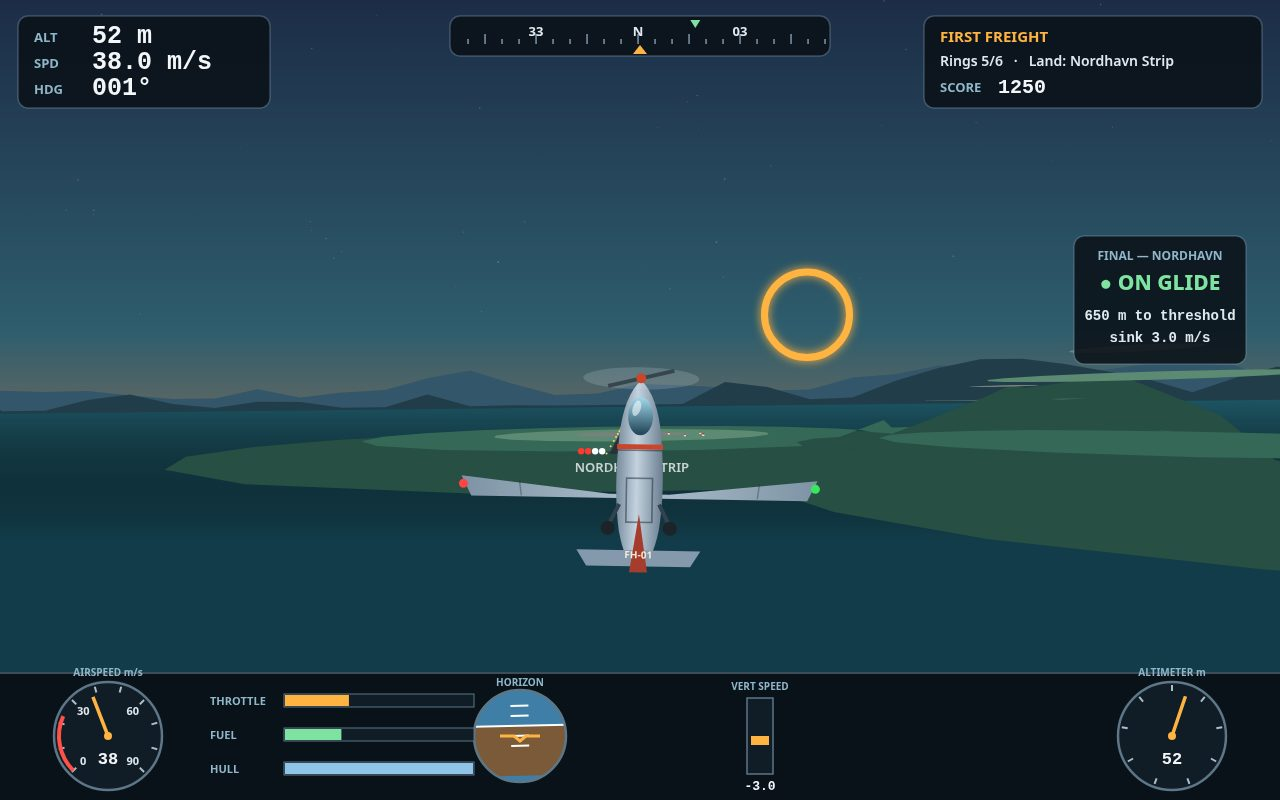
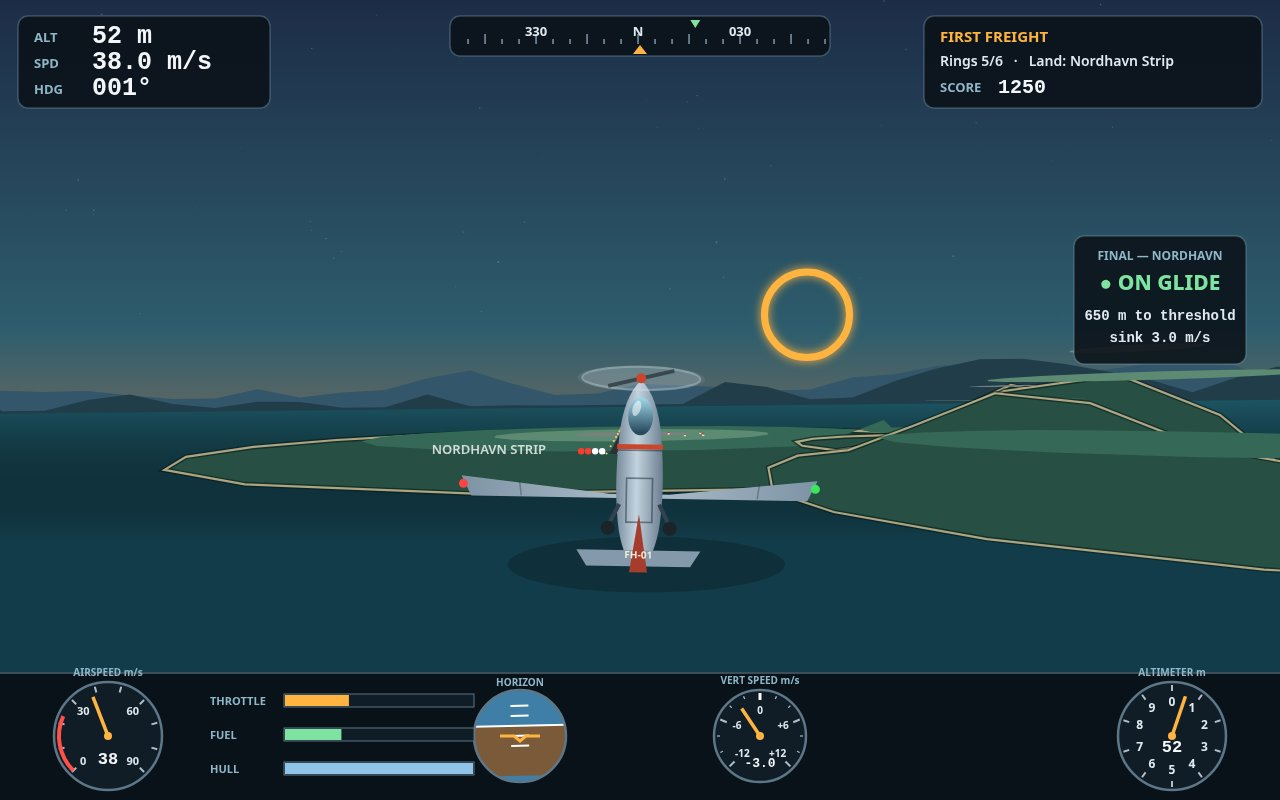
Revision: cover restaged (ring ahead, foreshortened, strip in distance), storm-run shot replaces rings shot, live VSI dial + altimeter numerals + 3-digit compass tape, aircraft shadow/prop-blur/wake, island shorelines, runway threshold bars + approach lights, strip label beside the strip

diff --git a/game/src/render.js b/game/src/render.js
@@ -100,6 +100,9 @@ export function drawScene(ctx, view) {
     ctx.fillStyle = sheen; ctx.fill();
   }
 
+  // --- storm cloud deck, behind the terrain ---
+  if (view.weather) drawClouds(ctx, t);
+
   // --- islands, far to near ---
   const sorted = ISLANDS.map((isl) => ({ isl, d: dist2(cam, isl) })).sort((a, b) => b.d - a.d);
   for (const { isl } of sorted) drawIsland(ctx, project, isl, pal);
@@ -126,6 +129,27 @@ export function drawScene(ctx, view) {
 
   // --- storm rain ---
   if (view.weather) drawRain(ctx, t);
+}
+
+// A low storm deck for weather scenes: overlapping soft-edged cloud
+// ellipses in flat greys, drifting slowly across the upper sky.
+function drawClouds(ctx, t) {
+  const blobs = [
+    { fx: 0.08, fy: 0.10, rx: 260, ry: 44 }, { fx: 0.30, fy: 0.05, rx: 320, ry: 52 },
+    { fx: 0.52, fy: 0.12, rx: 280, ry: 40 }, { fx: 0.74, fy: 0.06, rx: 330, ry: 50 },
+    { fx: 0.95, fy: 0.11, rx: 260, ry: 42 }, { fx: 0.18, fy: 0.20, rx: 220, ry: 30 },
+    { fx: 0.62, fy: 0.21, rx: 240, ry: 30 }, { fx: 0.88, fy: 0.22, rx: 200, ry: 26 },
+  ];
+  for (const b of blobs) {
+    const x = ((b.fx + t * 0.004) % 1.15 - 0.07) * W;
+    const y = b.fy * H;
+    const g = ctx.createRadialGradient(x, y, 6, x, y, b.rx);
+    g.addColorStop(0, 'rgba(34,40,48,0.55)');
+    g.addColorStop(0.7, 'rgba(34,40,48,0.27)');
+    g.addColorStop(1, 'rgba(34,40,48,0)');
+    ctx.fillStyle = g;
+    ctx.beginPath(); ctx.ellipse(x, y, b.rx, b.ry, 0, 0, Math.PI * 2); ctx.fill();
+  }
 }
 
 function dist2(cam, isl) { const dx = isl.x - cam.x, dz = isl.z - cam.z; return dx * dx + dz * dz; }
@@ -160,9 +184,8 @@ function drawIsland(ctx, project, isl, pal) {
   ];
   const N = 18;
   for (const ring of rings) {
-    ctx.fillStyle = ring.col;
-    ctx.beginPath();
-    let ok = true, started = false;
+    const pts = [];
+    let ok = true;
     for (let i = 0; i <= N; i++) {
       const a = (i / N) * Math.PI * 2;
       const wx = isl.x + Math.cos(a) * isl.r * ring.f;
@@ -170,9 +193,19 @@ function drawIsland(ctx, project, isl, pal) {
       const wy = terrainHeight(wx, wz) + (ring.f === 1 ? -1.5 : 0.5);
       const p = project(wx, wy, wz);
       if (!p) { ok = false; break; }
-      if (!started) { ctx.moveTo(p.x, p.y); started = true; } else ctx.lineTo(p.x, p.y);
+      pts.push(p);
     }
-    if (ok && started) { ctx.closePath(); ctx.fill(); }
+    if (!ok || !pts.length) continue;
+    ctx.fillStyle = ring.col;
+    ctx.beginPath();
+    pts.forEach((p, i) => { if (i === 0) ctx.moveTo(p.x, p.y); else ctx.lineTo(p.x, p.y); });
+    ctx.closePath(); ctx.fill();
+    if (ring.f === 1) {
+      // Shoreline: a dark waterline rim with a pale beach edge inside it,
+      // so each land patch reads as land where it meets the fjord.
+      ctx.strokeStyle = 'rgba(8,26,22,0.55)'; ctx.lineWidth = 5; ctx.stroke();
+      ctx.strokeStyle = 'rgba(226,205,160,0.75)'; ctx.lineWidth = 2.2; ctx.stroke();
+    }
   }
 }
 
@@ -236,6 +269,26 @@ function drawRunway(ctx, project, rw, pal, view) {
   const c2 = project(rw.cx, rw.alt + 0.5, rw.cz - hl * 0.92);
   if (c1 && c2) { ctx.beginPath(); ctx.moveTo(c1.x, c1.y); ctx.lineTo(c2.x, c2.y); ctx.stroke(); }
   ctx.setLineDash([]);
+  // Threshold bars: piano-key stripes across both ends of the strip.
+  ctx.strokeStyle = pal.stripLine;
+  for (const endSign of [1, -1]) {
+    const zBar = rw.cz + endSign * (hl - 16);
+    for (const off of [-0.62, -0.31, 0, 0.31, 0.62]) {
+      const b1 = project(rw.cx + off * rw.width, rw.alt + 0.5, zBar + endSign * 13);
+      const b2 = project(rw.cx + off * rw.width, rw.alt + 0.5, zBar - endSign * 1);
+      if (b1 && b2) {
+        ctx.lineWidth = Math.max(1.2, Math.min(5, 260 / b1.depth));
+        ctx.beginPath(); ctx.moveTo(b1.x, b1.y); ctx.lineTo(b2.x, b2.y); ctx.stroke();
+      }
+    }
+  }
+  // Approach lights: a centreline row running out from the south
+  // threshold, so the strip can be picked out from far down the fjord.
+  ctx.fillStyle = '#cfe8ff';
+  for (let i = 1; i <= 5; i++) {
+    const p = project(rw.cx, rw.alt + 1.2, rw.cz + hl + i * 46);
+    if (p && p.depth < 3200) { ctx.beginPath(); ctx.arc(p.x, p.y, Math.max(1.2, 216 / p.depth), 0, Math.PI * 2); ctx.fill(); }
+  }
   // Edge lights.
   ctx.fillStyle = '#ffd76a';
   for (let i = 0; i <= 8; i++) {
@@ -260,12 +313,15 @@ function drawRunway(ctx, project, rw, pal, view) {
       }
     }
   }
-  // Name label when close.
-  const mid = project(rw.cx, rw.alt + 2, rw.cz);
-  if (mid && mid.depth < 1500) {
-    ctx.fillStyle = 'rgba(255,255,255,0.75)';
-    ctx.font = '600 13px system-ui, sans-serif'; ctx.textAlign = 'center';
-    ctx.fillText(rw.name.toUpperCase(), mid.x, corners[0].y + 18);
+  // Name label when close: on the terrain west of the strip's near end,
+  // right-aligned so it ends beside the strip — never across the strip
+  // or the aircraft.
+  const labelP = project(rw.cx - hw - 75, rw.alt + 2, rw.cz + hl * 0.9);
+  const nearMid = project(rw.cx, rw.alt + 2, rw.cz + hl * 0.9);
+  if (labelP && nearMid && nearMid.depth < 1500) {
+    ctx.fillStyle = 'rgba(255,255,255,0.78)';
+    ctx.font = '600 13px system-ui, sans-serif'; ctx.textAlign = 'right';
+    ctx.fillText(rw.name.toUpperCase(), labelP.x, labelP.y + 4);
   }
 }
 
@@ -332,6 +388,33 @@ function drawCrates(ctx, project, ms) {
 function drawAircraft(ctx, plane, t) {
   const ax = W / 2 - (plane.bank || 0) * 26;
   const ay = H * 0.60 - (plane.climbAngle || 0) * 55;
+
+  // Grounding: a soft shadow on the water/terrain below, sliding away and
+  // fading as the aircraft climbs, tight under the wheels on the ground;
+  // and a faint twin wake when skimming low over water.
+  const groundAlt = terrainHeight(plane.x, plane.z);
+  const agl = Math.max(0, plane.alt - groundAlt);
+  if (plane.onGround) {
+    ctx.fillStyle = 'rgba(6,14,18,0.32)';
+    ctx.beginPath(); ctx.ellipse(ax, ay + 58, 150, 26, 0, 0, Math.PI * 2); ctx.fill();
+  } else {
+    const shA = Math.max(0.07, 0.30 - agl * 0.0021);
+    const shRx = Math.max(58, 148 - agl * 0.75);
+    const shX = ax + Math.min(64, agl * 0.55);
+    const shY = ay + 74 + Math.min(58, agl * 0.5);
+    ctx.fillStyle = 'rgba(6,14,18,' + shA.toFixed(3) + ')';
+    ctx.beginPath(); ctx.ellipse(shX, shY, shRx, shRx * 0.20, 0, 0, Math.PI * 2); ctx.fill();
+    if (groundAlt <= 0.01 && agl > 2 && agl < 30 && plane.speed > 12) {
+      ctx.strokeStyle = 'rgba(220,238,244,0.35)'; ctx.lineWidth = 2.5;
+      for (const side of [-1, 1]) {
+        ctx.beginPath();
+        ctx.moveTo(ax + side * 16, ay + 96);
+        ctx.quadraticCurveTo(ax + side * (30 + agl), ay + 130 + agl * 0.4, ax + side * (58 + agl * 1.4), ay + 168 + agl * 0.5);
+        ctx.stroke();
+      }
+    }
+  }
+
   ctx.save();
   ctx.translate(ax, ay);
   ctx.rotate((plane.bank || 0) * 0.85);
@@ -395,11 +478,16 @@ function drawAircraft(ctx, plane, t) {
   ctx.fillStyle = '#1c2329';
   ctx.beginPath(); ctx.arc(-31, 44, 7, 0, Math.PI * 2); ctx.arc(31, 44, 7, 0, Math.PI * 2); ctx.fill();
 
-  // Spinning prop at the nose: blurred disc and two blade streaks.
+  // Spinning prop at the nose: a translucent blur disc with a rim ring,
+  // and two blade streaks turning inside it.
   ctx.save();
   ctx.translate(0, -106);
+  ctx.fillStyle = 'rgba(200,214,224,0.10)';
+  ctx.beginPath(); ctx.ellipse(0, 0, 64, 13, 0, 0, Math.PI * 2); ctx.fill();
   ctx.fillStyle = 'rgba(200,214,224,0.20)';
   ctx.beginPath(); ctx.ellipse(0, 0, 58, 11, 0, 0, Math.PI * 2); ctx.fill();
+  ctx.strokeStyle = 'rgba(215,228,238,0.38)'; ctx.lineWidth = 2;
+  ctx.beginPath(); ctx.ellipse(0, 0, 59, 11.5, 0, 0, Math.PI * 2); ctx.stroke();
   ctx.strokeStyle = 'rgba(40,52,62,0.75)'; ctx.lineWidth = 4;
   const pa = plane.propPhase || 0;
   ctx.beginPath();

diff --git a/game/src/instruments.js b/game/src/instruments.js
@@ -54,7 +54,7 @@ function drawHeadingTape(ctx, plane, ms) {
     ctx.beginPath(); ctx.moveTo(x, y0 + h - 12); ctx.lineTo(x, y0 + h - (norm % 15 === 0 ? 22 : 17)); ctx.stroke();
     if (norm % 30 === 0) {
       ctx.fillStyle = '#dfe9ef'; ctx.font = '700 13px system-ui, sans-serif';
-      const label = norm === 0 ? 'N' : norm === 90 ? 'E' : norm === 180 ? 'S' : norm === 270 ? 'W' : String(norm / 10).padStart(2, '0');
+      const label = norm === 0 ? 'N' : norm === 90 ? 'E' : norm === 180 ? 'S' : norm === 270 ? 'W' : String(norm).padStart(3, '0');
       ctx.fillText(label, x, y0 + 20);
     }
   }
@@ -109,18 +109,19 @@ function drawPanel(ctx, plane, t) {
   drawDial(ctx, 108, y + 64, 54, 'AIRSPEED', 'm/s', plane.speed, 90, plane.speed.toFixed(0),
     (v) => -225 + (v / 90) * 270, plane.speed < STALL_SPEED + 3 && !plane.onGround);
   drawDial(ctx, W - 108, y + 64, 54, 'ALTIMETER', 'm', plane.alt, 1000, String(Math.max(0, Math.round(plane.alt))),
-    (v) => -90 + ((v % 1000) / 1000) * 360, false);
+    (v) => -90 + ((v % 1000) / 1000) * 360, false, 0.30);
   drawHorizon(ctx, W / 2 - 120, y + 64, 46, plane);
   drawVsi(ctx, W / 2 + 120, y + 64, plane);
   drawBars(ctx, 210, y + 22, plane);
 }
 
-function drawDial(ctx, cx, cy, r, label, unit, value, max, digital, angleFor, warn) {
+function drawDial(ctx, cx, cy, r, label, unit, value, max, digital, angleFor, warn, digitalFrac) {
   ctx.fillStyle = '#101c26';
   ctx.beginPath(); ctx.arc(cx, cy, r, 0, Math.PI * 2); ctx.fill();
   ctx.strokeStyle = warn && Math.sin(performance.now() / 130) > 0 ? '#ff5147' : '#5d7688';
   ctx.lineWidth = 2.5; ctx.stroke();
-  for (let v = 0; v <= max; v += max / 9) {
+  const step = max === 1000 ? 100 : max / 9;
+  for (let v = 0; v <= max; v += step) {
     const a = angleFor(v) * Math.PI / 180;
     const c = Math.cos(a), s = Math.sin(a);
     ctx.strokeStyle = '#aebfcc'; ctx.lineWidth = 2;
@@ -131,6 +132,11 @@ function drawDial(ctx, cx, cy, r, label, unit, value, max, digital, angleFor, wa
     if (max === 90 && v % 30 === 0) {
       ctx.fillStyle = '#dfe9ef'; ctx.font = '700 11px system-ui, sans-serif'; ctx.textAlign = 'center';
       ctx.fillText(String(v), cx + c * (r - 19), cy + s * (r - 19) + 4);
+    }
+    // Altimeter face numerals: 0-9, one per 100 m revolution step.
+    if (max === 1000 && v < 1000) {
+      ctx.fillStyle = '#dfe9ef'; ctx.font = '700 12px system-ui, sans-serif'; ctx.textAlign = 'center';
+      ctx.fillText(String(v / 100), cx + c * (r - 20), cy + s * (r - 20) + 4);
     }
   }
   // Stall band on the airspeed dial.
@@ -143,7 +149,7 @@ function drawDial(ctx, cx, cy, r, label, unit, value, max, digital, angleFor, wa
   ctx.beginPath(); ctx.moveTo(cx, cy); ctx.lineTo(cx + Math.cos(a) * (r - 12), cy + Math.sin(a) * (r - 12)); ctx.stroke();
   ctx.fillStyle = '#ffb340'; ctx.beginPath(); ctx.arc(cx, cy, 4, 0, Math.PI * 2); ctx.fill();
   ctx.fillStyle = '#f4f7f9'; ctx.font = '700 17px ui-monospace, Menlo, monospace'; ctx.textAlign = 'center';
-  ctx.fillText(digital, cx, cy + r * 0.52);
+  ctx.fillText(digital, cx, cy + r * (digitalFrac === undefined ? 0.52 : digitalFrac));
   ctx.fillStyle = '#8fb6c9'; ctx.font = '700 10px system-ui, sans-serif';
   ctx.fillText(label + ' ' + unit, cx, cy - r - 6);
 }
@@ -173,16 +179,37 @@ function drawHorizon(ctx, cx, cy, r, plane) {
 }
 
 function drawVsi(ctx, cx, cy, plane) {
-  ctx.fillStyle = '#8fb6c9'; ctx.font = '700 10px system-ui, sans-serif'; ctx.textAlign = 'center';
-  ctx.fillText('VERT SPEED', cx, cy - 46);
-  ctx.fillStyle = '#101c26'; ctx.fillRect(cx - 13, cy - 38, 26, 76);
-  ctx.strokeStyle = '#5d7688'; ctx.lineWidth = 1.5; ctx.strokeRect(cx - 13, cy - 38, 26, 76);
+  // A flown VSI: round dial, needle, graduations every 2 m/s, numerals at
+  // the majors, zero straight up, and a digital readout in m/s.
+  const r = 46;
   const vs = Math.max(-12, Math.min(12, plane.vs));
-  ctx.fillStyle = vs >= 0 ? '#7ee2a0' : '#ffb340';
-  const hgt = Math.abs(vs) / 12 * 36;
-  ctx.fillRect(cx - 9, vs >= 0 ? cy - hgt : cy, 18, hgt);
-  ctx.fillStyle = '#f4f7f9'; ctx.font = '700 13px ui-monospace, Menlo, monospace';
-  ctx.fillText((plane.vs >= 0 ? '+' : '') + plane.vs.toFixed(1), cx, cy + 54);
+  const angleFor = (v) => -225 + ((v + 12) / 24) * 270; // -12 bottom-left, 0 top, +12 bottom-right
+  ctx.fillStyle = '#101c26';
+  ctx.beginPath(); ctx.arc(cx, cy, r, 0, Math.PI * 2); ctx.fill();
+  ctx.strokeStyle = '#5d7688'; ctx.lineWidth = 2.5; ctx.stroke();
+  for (let v = -12; v <= 12; v += 2) {
+    const a = angleFor(v) * Math.PI / 180;
+    const c = Math.cos(a), s = Math.sin(a);
+    const major = v % 6 === 0;
+    ctx.strokeStyle = v === 0 ? '#ffffff' : '#aebfcc';
+    ctx.lineWidth = v === 0 ? 3 : major ? 2 : 1.2;
+    ctx.beginPath();
+    ctx.moveTo(cx + c * (r - (major ? 10 : 6)), cy + s * (r - (major ? 10 : 6)));
+    ctx.lineTo(cx + c * (r - 3), cy + s * (r - 3));
+    ctx.stroke();
+    if (major) {
+      ctx.fillStyle = '#dfe9ef'; ctx.font = '700 10px system-ui, sans-serif'; ctx.textAlign = 'center';
+      ctx.fillText(v > 0 ? '+' + v : String(v), cx + c * (r - 21), cy + s * (r - 21) + 3);
+    }
+  }
+  const a = angleFor(vs) * Math.PI / 180;
+  ctx.strokeStyle = '#ffb340'; ctx.lineWidth = 3.5;
+  ctx.beginPath(); ctx.moveTo(cx, cy); ctx.lineTo(cx + Math.cos(a) * (r - 13), cy + Math.sin(a) * (r - 13)); ctx.stroke();
+  ctx.fillStyle = '#ffb340'; ctx.beginPath(); ctx.arc(cx, cy, 4, 0, Math.PI * 2); ctx.fill();
+  ctx.fillStyle = '#f4f7f9'; ctx.font = '700 13px ui-monospace, Menlo, monospace'; ctx.textAlign = 'center';
+  ctx.fillText((plane.vs >= 0 ? '+' : '') + plane.vs.toFixed(1), cx, cy + r * 0.68);
+  ctx.fillStyle = '#8fb6c9'; ctx.font = '700 10px system-ui, sans-serif';
+  ctx.fillText('VERT SPEED m/s', cx, cy - r - 6);
 }
 
 function drawBars(ctx, x, y, plane) {

diff --git a/game/src/shots.js b/game/src/shots.js
@@ -1,5 +1,5 @@
 // shots.js — staged, deterministic scenes for the maker's screenshots.
-// A ?shot=cover|rings|approach|debrief URL freezes the clock and poses a
+// A ?shot=cover|storm|approach|debrief URL freezes the clock and poses a
 // real game state (same plane, same mission bookkeeping the game itself
 // uses), so every screenshot is an honest render of the game's own code.
 
@@ -38,6 +38,24 @@ export function stageShot(game, name) {
     return;
   }
 
+  if (name === 'storm') {
+    // Mission 3, Storm Run: heavy bank into the crosswind, rain and a low
+    // cloud deck (the storm palette and weather come from the mission
+    // itself), crabbed heading, low fuel on the gauges.
+    const storm = MISSIONS[2];
+    game.missionIndex = 2;
+    const ms = createMissionState(storm);
+    ms.ringDone[0] = true; ms.ringsPassed = 1; ms.score = 250;
+    ms.message = 'RING 1/2  +250'; ms.messageT = 3;
+    game.mState = ms;
+    game.plane = stagedPlane(storm, {
+      x: 180, z: -1250, alt: 150, heading: 0.30, speed: 44,
+      throttle: 0.72, bank: -0.48, climbAngle: -0.05, vs: -2.2, fuel: 13,
+    });
+    game.screen = 'fly';
+    return;
+  }
+
   game.screen = 'fly';
   if (name === 'rings') {
     const ms = createMissionState(mission);
@@ -63,14 +81,20 @@ export function stageShot(game, name) {
     });
     return;
   }
-  // cover: last ring ahead, Nordhavn strip beyond it, panel lit.
+  // cover: mid ring-run, banked in a turn onto the next ring (bank
+  // 0.21 rad, horizon rolled). The plane sits on a 33-degree intercept
+  // heading with the NEXT ring dead ahead of the nose, fully clear of
+  // the airframe and seen obliquely, so it draws as a foreshortened
+  // ellipse; Nordhavn Strip lies in the distance to the left. The
+  // heading offset from the strip (0.58 rad) keeps the glide-slope aid
+  // out of the frame; ring progress shows on the objective board
+  // (Rings 4/6).
   const ms = createMissionState(mission);
-  for (let i = 0; i < 5; i++) ms.ringDone[i] = true;
-  ms.ringsPassed = 5; ms.score = 1250;
-  ms.message = 'RING 5/6  +250'; ms.messageT = 3;
+  for (let i = 0; i < 4; i++) ms.ringDone[i] = true;
+  ms.ringsPassed = 4; ms.score = 1000;
   game.mState = ms;
   game.plane = stagedPlane(mission, {
-    x: -28, z: -3360, alt: 131, heading: 0.02, speed: 47,
-    throttle: 0.62, bank: 0.06, climbAngle: 0.01, fuel: 64,
+    x: -241, z: -2590, alt: 71, heading: 0.58, speed: 47,
+    throttle: 0.66, bank: 0.21, climbAngle: 0.12, vs: 5.6, fuel: 64,
   });
 }
